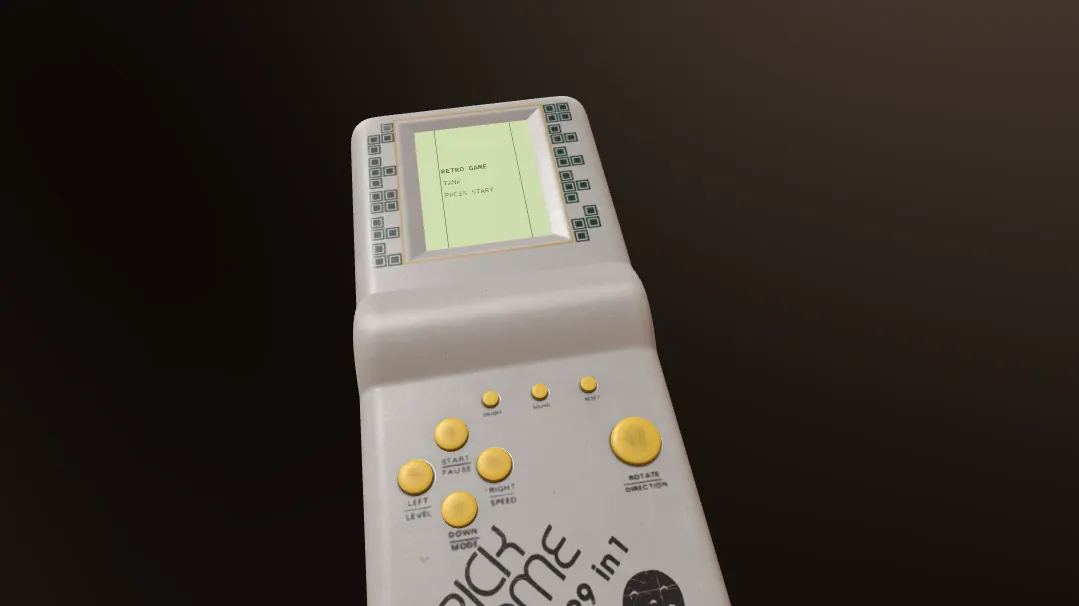
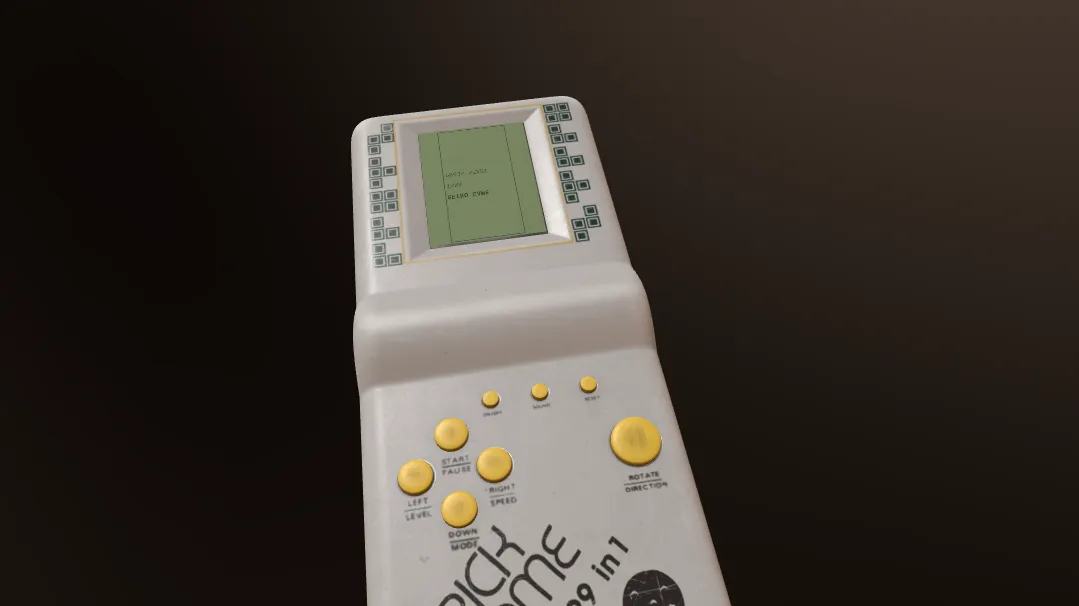
feat: target screen_plane for rendering and support new 9999-in-1 model

Changed region(s): [[0.367, 0.1782, 0.5199, 0.4158]]

diff --git a/Needle/SampleScene/src/scripts/BrickGameScreen.ts b/Needle/SampleScene/src/scripts/BrickGameScreen.ts
@@ -159,7 +159,7 @@ export class BrickGameScreen extends Behaviour {
     private tryApply() {
         this.context.scene.traverse((node: any) => {
             if (this.applied) return;
-            if (node.isMesh && node.name === "Object_8") {
+            if (node.isMesh && node.name === "screen_plane") {
                 this.patchMesh(node);
             }
         });